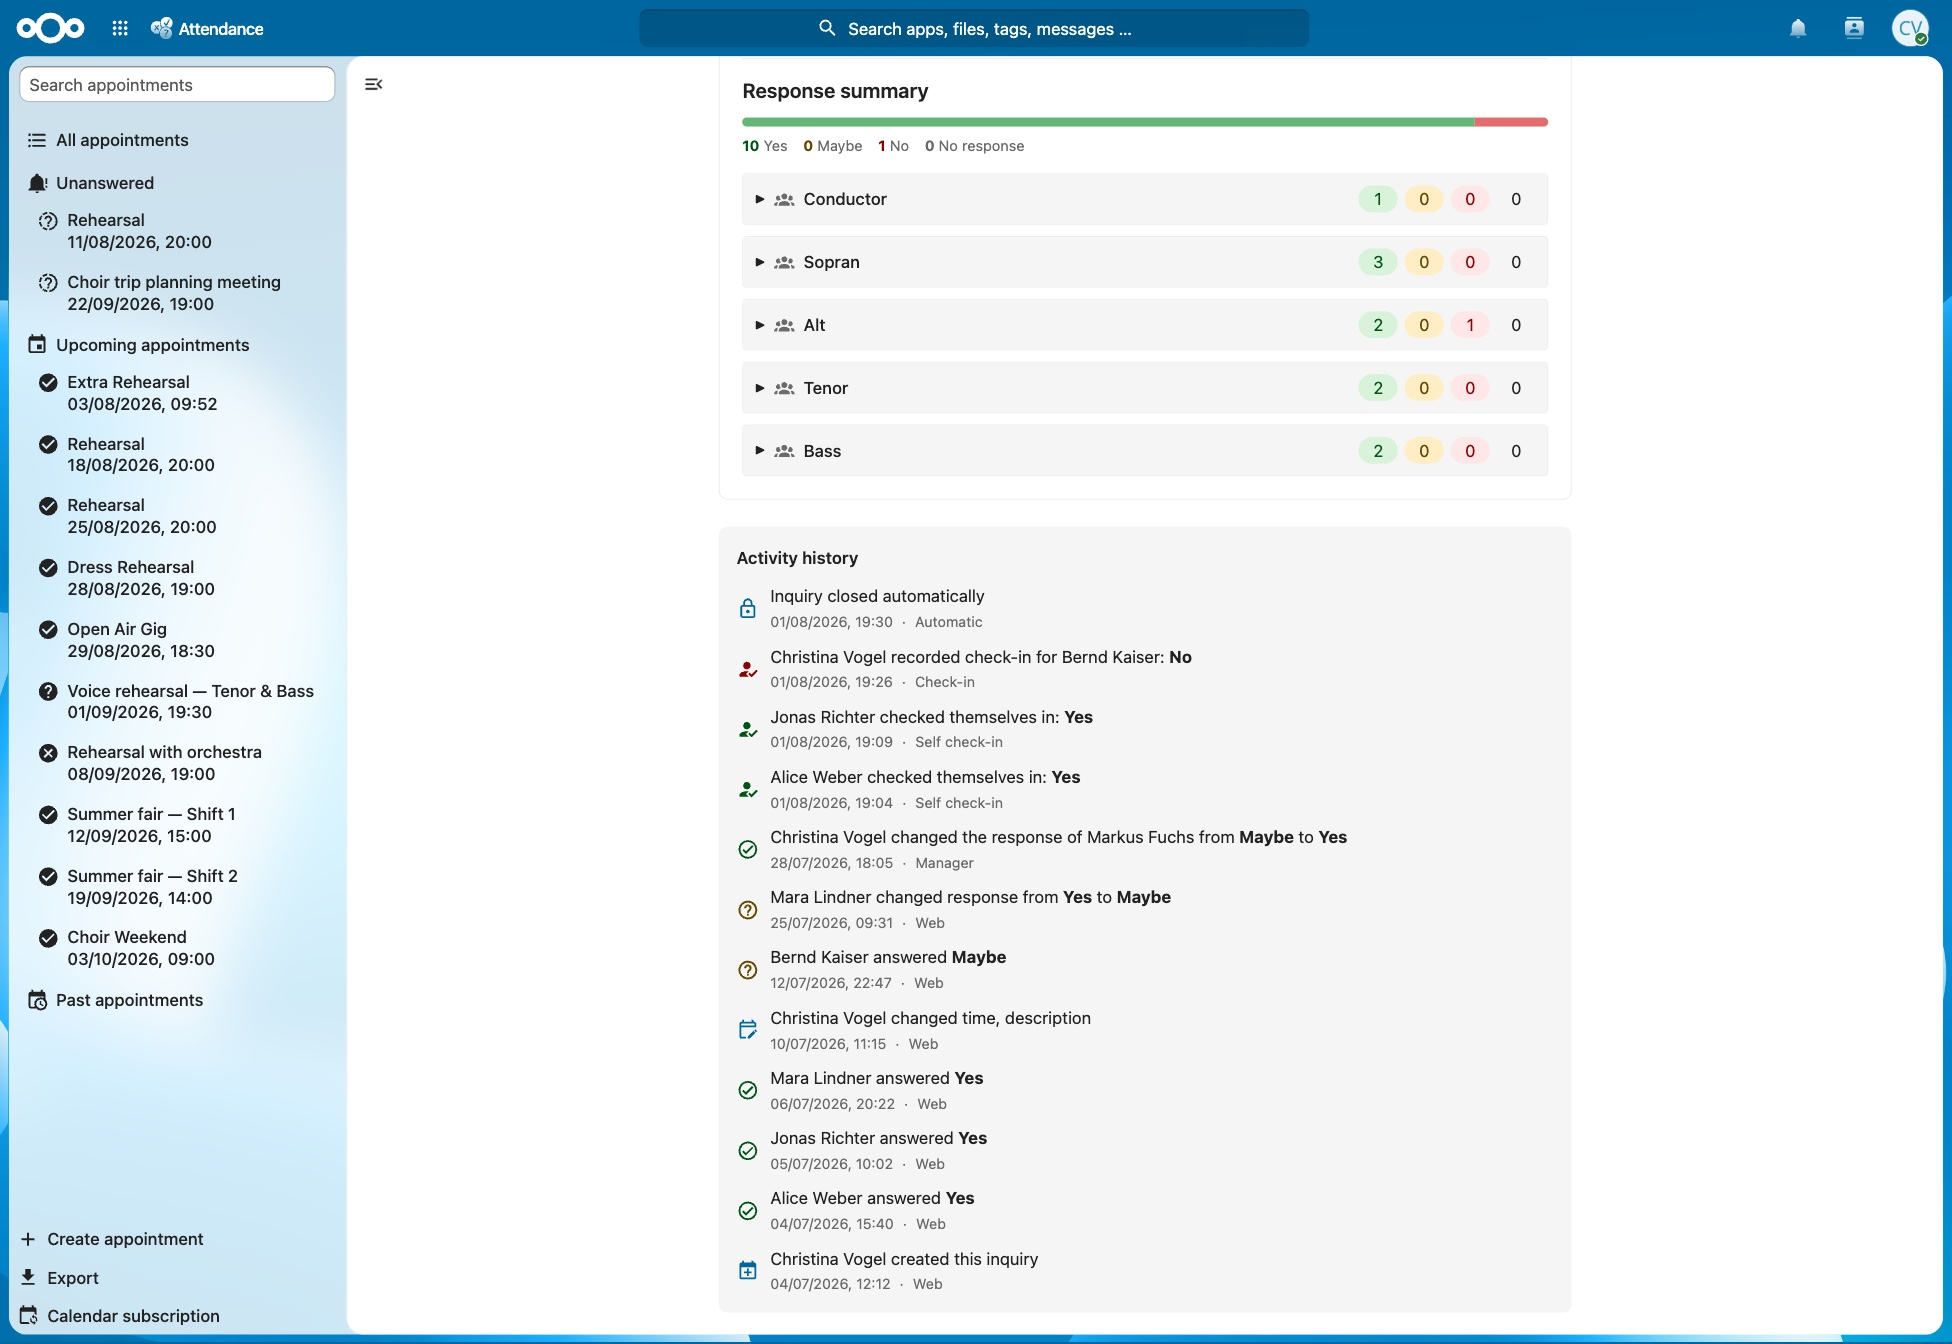
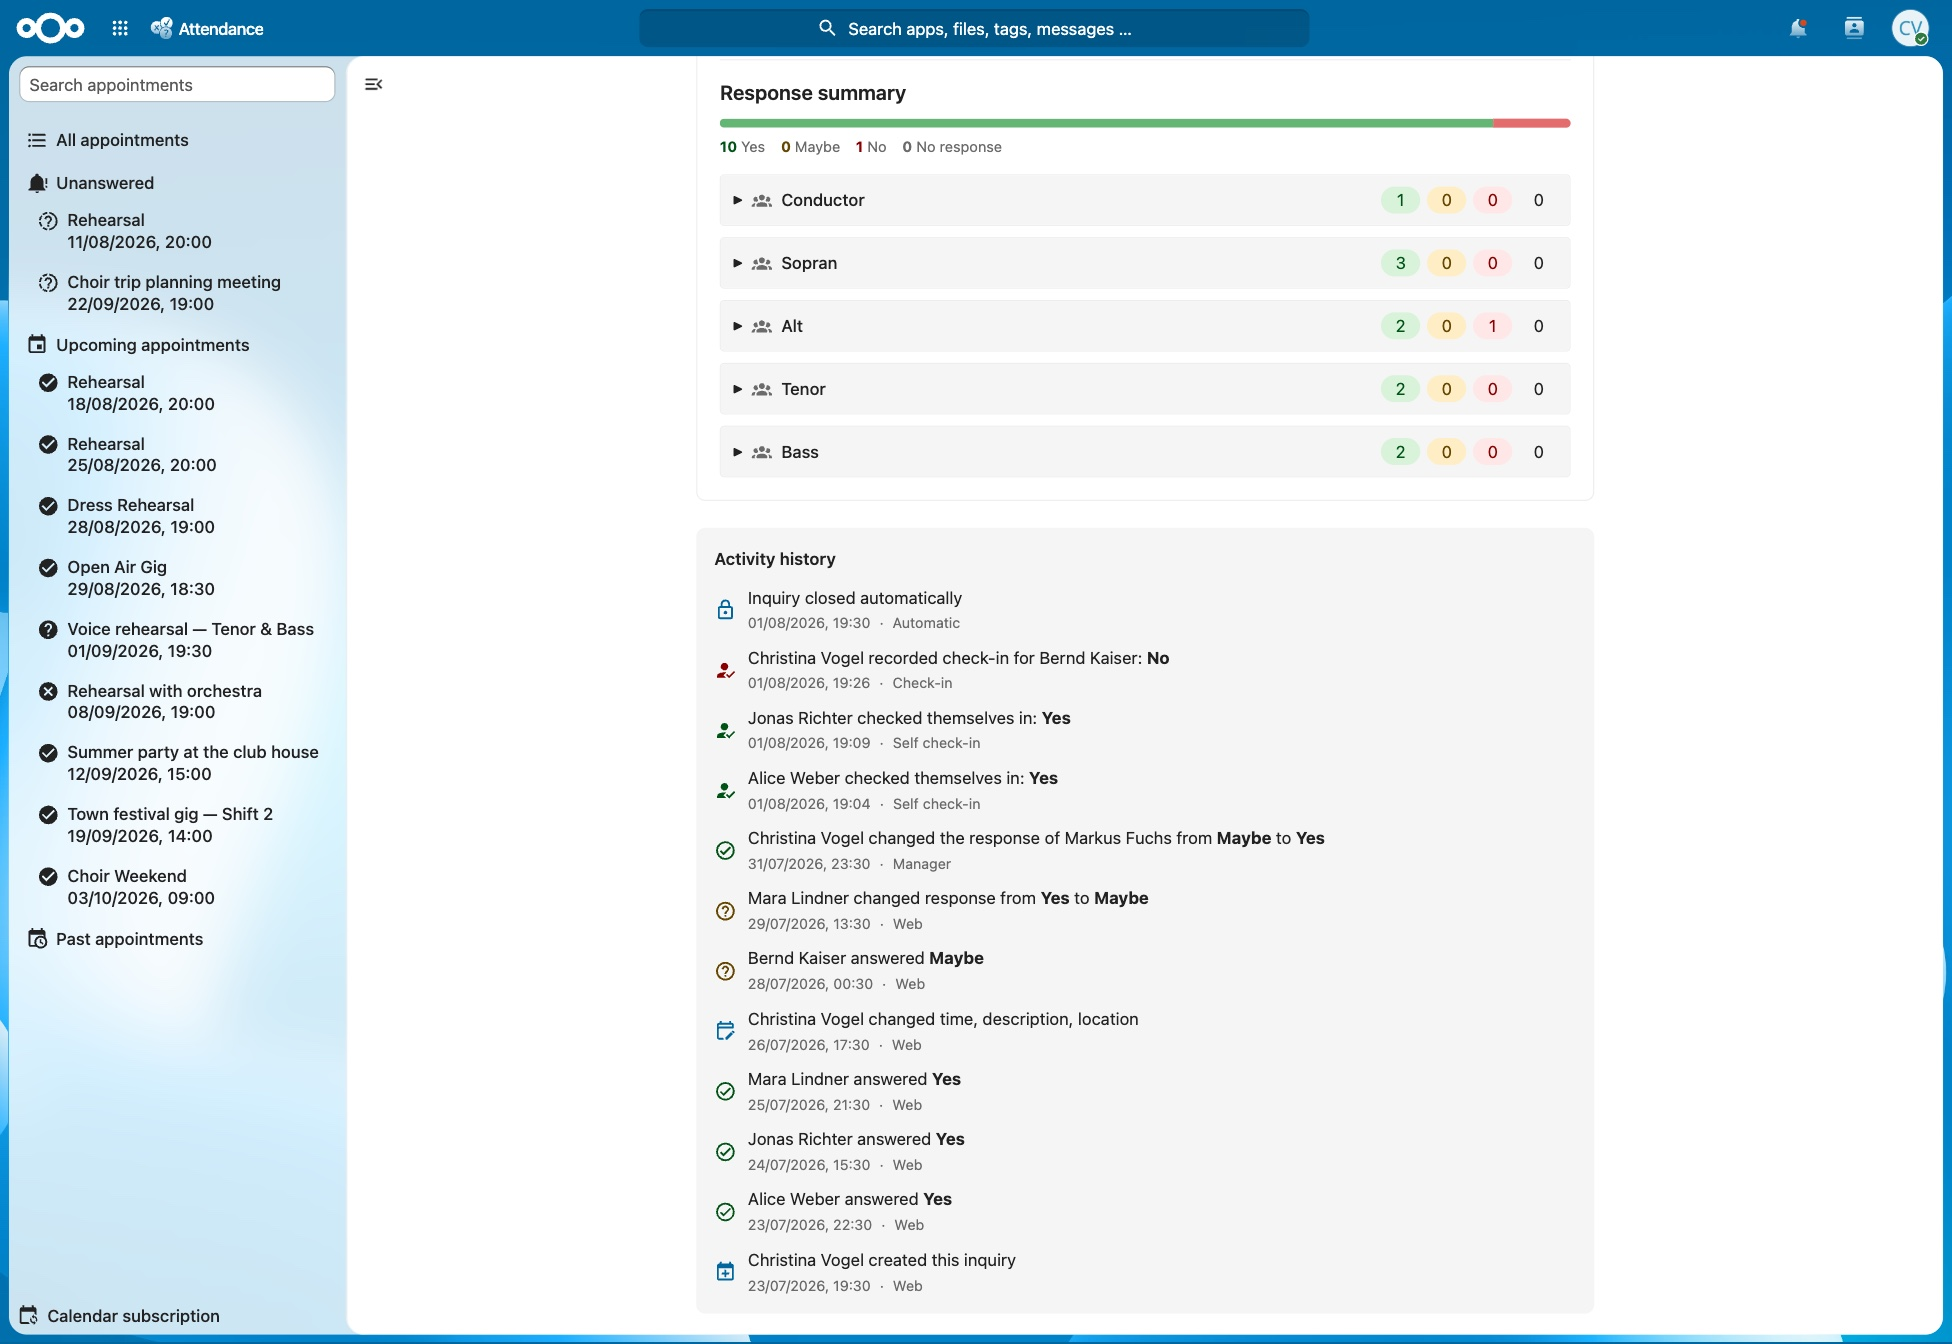
chore: reshoot screenshots with categories and locations
The seed data predates both features, so the shipped screenshots showed
neither. Adds four choir categories (Rehearsal/microphone,
Performance/theater, Choir weekend/cabin, Party/celebration) covering
every appointment but the deliberately uncategorized design state, and a
location on three of them so both card variants are visible.

The category icon and the location line grow the cards, so all three list
viewports needed re-measuring — the old ones now cut mid-card.

apply_config additionally repairs two settings that block the shoot:
permission_checkin (no admin bypass exists, so the mode an e2e run leaves
behind makes the check-in page 403) and booking_enabled, which the
Schedule buttons and the scheduling chips both need.

diff --git a/.claude/skills/screenshots/scripts/seed_demo_data.py b/.claude/skills/screenshots/scripts/seed_demo_data.py
@@ -66,6 +66,38 @@ ORGANIZER = "admin"
 
 SERIES_ID = "demo-rehearsal-series"
 
+# Demo categories, written into `oc_att_categories` in the same reserved ID
+# range as the appointments. Icons must be keys of CategoryService::ICONS.
+# (category key, icon, name per language)
+CATEGORIES = [
+    ("rehearsal", "microphone", {"en": "Rehearsal", "de": "Probe"}),
+    ("performance", "theater", {"en": "Performance", "de": "Auftritt"}),
+    ("weekend", "cabin", {"en": "Choir weekend", "de": "Chorwochenende"}),
+    ("party", "celebration", {"en": "Party", "de": "Fest"}),
+]
+
+# appointment key -> category key. d_unanswered stays uncategorized on
+# purpose so the design states also show the no-category card.
+CATEGORY_FOR = {
+    "r1": "rehearsal", "r2": "rehearsal", "r3": "rehearsal",
+    "r4": "rehearsal", "r5": "rehearsal",
+    "extra": "rehearsal", "dress": "rehearsal",
+    "concert": "performance", "gig": "performance",
+    "weekend": "weekend",
+    "d_maybe": "rehearsal", "d_no": "rehearsal",
+    "d_booked": "party", "d_declined": "performance",
+    "d_cancelled": "rehearsal",
+}
+
+# Only a few appointments carry a location — screenshots should show both the
+# with- and without-location card. Proper nouns stay German in both languages.
+LOCATIONS = {
+    "extra": {"en": "Parish hall St. Martin", "de": "Gemeindesaal St. Martin"},
+    "concert": {"en": "Stadtpark, Bamberg", "de": "Stadtpark, Bamberg"},
+    "weekend": {"en": "Kloster Banz, Bad Staffelstein",
+                "de": "Kloster Banz, Bad Staffelstein"},
+}
+
 # Appointment name + description per language, keyed like RESPONSES. The
 # store screenshots ship in English; `--lang de` produces the same data in
 # German for the website's /de pages (the app store itself cannot take
@@ -516,9 +548,8 @@ def build_design_appointments(now: dt.datetime, lang: str) -> list[dict]:
     """One appointment per state the redesigned card was drawn for.
 
     Kept out of the default seed so the app store screenshots keep showing the
-    plain choir list. Scheduling states only render when the instance has
-    `booking_enabled=yes` — apply_config turns it on. Names follow --lang so a
-    German design review and a German website shot use the same command.
+    plain choir list. Names follow --lang so a German design review and a
+    German website shot use the same command.
     """
     today = now.date()
     tue, sat = 1, 5
@@ -551,6 +582,29 @@ def build_design_appointments(now: dt.datetime, lang: str) -> list[dict]:
     return appts
 
 
+def category_ids() -> dict[str, int]:
+    return {key: ID_BASE + i for i, (key, _, _) in enumerate(CATEGORIES)}
+
+
+def build_category_sql(lang: str) -> list[str]:
+    """Demo categories in the reserved ID range, idempotent like the rest.
+
+    The name column is UNIQUE, so a manually created category with the same
+    name (e.g. from an earlier UI experiment) is deleted too — otherwise the
+    insert would fail.
+    """
+    names = ", ".join(q(names[lang]) for _, _, names in CATEGORIES)
+    out = [
+        f"DELETE FROM oc_att_categories WHERE id BETWEEN {ID_BASE} AND {ID_MAX};",
+        f"DELETE FROM oc_att_categories WHERE name IN ({names});",
+    ]
+    ids = category_ids()
+    for key, icon, cat_names in CATEGORIES:
+        out.append(f"INSERT INTO oc_att_categories (id, name, icon) VALUES "
+                   f"({ids[key]}, {q(cat_names[lang])}, {q(icon)});")
+    return out
+
+
 def build_sql(appts: list[dict], known_users: set[str], lang: str) -> list[str]:
     fmt = "%Y-%m-%d %H:%M:%S"
     out = [
@@ -558,15 +612,20 @@ def build_sql(appts: list[dict], known_users: set[str], lang: str) -> list[str]:
         f"DELETE FROM oc_att_responses WHERE appointment_id BETWEEN {ID_BASE} AND {ID_MAX};",
         f"DELETE FROM oc_att_appointments WHERE id BETWEEN {ID_BASE} AND {ID_MAX};",
     ]
+    out += build_category_sql(lang)
     groups = json.dumps([CONDUCTOR_GROUPS[lang]] + VOICE_GROUPS)
     organizers = json.dumps([ORGANIZER])
+    cat_ids = category_ids()
 
     for a in appts:
         created = (a["start"] - dt.timedelta(days=9)).strftime(fmt)
+        cat_key = CATEGORY_FOR.get(a["key"])
+        location = LOCATIONS.get(a["key"], {}).get(lang)
         cols = ("id, name, description, start_datetime, end_datetime, created_by, "
                 "created_at, updated_at, is_active, visible_users, visible_groups, "
                 "visible_teams, series_id, series_position, send_notification, "
-                "closed_at, response_deadline, cancelled_at, organizers")
+                "closed_at, response_deadline, cancelled_at, organizers, "
+                "location, category_id")
         vals = ", ".join([
             str(a["id"]), q(a["name"]), q(a["desc"]),
             q(a["start"].strftime(fmt)), q(a["end"].strftime(fmt)),
@@ -579,6 +638,8 @@ def build_sql(appts: list[dict], known_users: set[str], lang: str) -> list[str]:
             q(a["deadline"].strftime(fmt)) if a["deadline"] else "NULL",
             q(a["cancelled"].strftime(fmt)) if a.get("cancelled") else "NULL",
             q(organizers),
+            q(location),
+            str(cat_ids[cat_key]) if cat_key else "NULL",
         ])
         out.append(f"INSERT INTO oc_att_appointments ({cols}) VALUES ({vals});")
 
@@ -624,7 +685,8 @@ AUDIT_EVENTS = [
     ("response.submitted", "user6", "user6",
      {"response": "yes", "comment": ""}, "app", dt.timedelta(days=-7, hours=2)),
     ("appointment.updated", "admin", None,
-     {"fields": ["time", "description"]}, "app", dt.timedelta(days=-6, hours=-2)),
+     {"fields": ["time", "description", "location"]}, "app",
+     dt.timedelta(days=-6, hours=-2)),
     ("response.submitted", "bob", "bob",
      {"response": "maybe", "comment": ""}, "app", dt.timedelta(days=-5, hours=5)),
     ("response.changed", "user6", "user6",
@@ -667,8 +729,7 @@ def build_audit_sql(appts: list[dict], known_users: set[str]) -> list[str]:
     return out
 
 
-def apply_config(nc: str, known_users: set[str], lang: str,
-                 design_states: bool = False) -> None:
+def apply_config(nc: str, known_users: set[str], lang: str) -> None:
     print("configuring instance …")
     conductor = CONDUCTOR_GROUPS[lang]
     existing_groups = occ(nc, "group:list", "--output=json")
@@ -704,10 +765,19 @@ def apply_config(nc: str, known_users: set[str], lang: str,
     occ(nc, "user:setting", ORGANIZER, "core", "locale", ui_locale, check=False)
     print(f"  + {ORGANIZER}: lang={ui_lang} locale={ui_locale}")
 
-    # The "Scheduled" / "Not scheduled" states only render with the feature on.
-    if design_states:
-        occ(nc, "config:app:set", "attendance", "booking_enabled", "--value=yes")
-        print("  + booking_enabled = yes")
+    # The check-in list 403s when permission_checkin is left at mode "nobody"
+    # — there is no admin bypass, and an e2e run leaves it that way. Point it
+    # at the conductor group so the screenshot account can check people in.
+    occ(nc, "config:app:set", "attendance", "permission_checkin_mode",
+        "--value=groups")
+    occ(nc, "config:app:set", "attendance", "permission_checkin",
+        f"--value={json.dumps([conductor])}")
+    print(f"  + permission_checkin = groups {conductor}")
+
+    # The category badge on the cards, and the "Scheduled" / "Not scheduled"
+    # states, only render with their feature on.
+    occ(nc, "config:app:set", "attendance", "booking_enabled", "--value=yes")
+    print("  + booking_enabled = yes")
 
 
 def main() -> None:
@@ -748,7 +818,7 @@ def main() -> None:
 
     print(f"instance {nc}, db {db}, now (UTC) {now}, lang {args.lang}")
     if not args.no_config:
-        apply_config(nc, users, args.lang, design_states=args.design_states)
+        apply_config(nc, users, args.lang)
 
     cfg = db_config(nc)
     cmd = ["docker", "exec", "-i", db, "mysql",
@@ -761,11 +831,15 @@ def main() -> None:
     if err:
         print(err)
 
-    print(f"seeded {len(appts)} appointments (IDs {ID_BASE}-{appts[-1]['id']}):")
+    print(f"seeded {len(CATEGORIES)} categories and {len(appts)} appointments "
+          f"(IDs {ID_BASE}-{appts[-1]['id']}):")
     for a in appts:
         state = "cancelled" if a.get("cancelled") else "closed" if a["closed"] else "open"
         running = "  <- running now" if a["start"] <= now <= a["end"] else ""
-        print(f"  {a['id']}  {a['start']:%a %d %b %H:%M} UTC  {a['name']:<16} {state}{running}")
+        cat = CATEGORY_FOR.get(a["key"], "-")
+        loc = "  @ " + LOCATIONS[a["key"]][args.lang] if a["key"] in LOCATIONS else ""
+        print(f"  {a['id']}  {a['start']:%a %d %b %H:%M} UTC  {a['name']:<20} "
+              f"{state:<9} [{cat}]{running}{loc}")
 
 
 if __name__ == "__main__":

diff --git a/.claude/skills/screenshots/SKILL.md b/.claude/skills/screenshots/SKILL.md
@@ -97,12 +97,12 @@ instead of hunting for a closed or cancelled example:
 | 155 | **cancelled** |
 | 156 | open, unanswered, with a response deadline |
 
-The scheduling states need `booking_enabled=yes`, which this flag turns on.
-They are **not** part of the app store set — the plain run deletes them again,
+These are **not** part of the app store set — the plain run deletes them again,
 because the shipped list screenshot should show an ordinary choir list. Re-pass
-the flag whenever you want them back.
+the flag whenever you want them back. `scheduling.jpg` is the exception: it is
+shot from IDs 153/154, so that shot needs this flag.
 
-The script also fixes four things that otherwise ruin the screenshots. Do not
+The script also fixes six things that otherwise ruin the screenshots. Do not
 skip them with `--no-config` unless you know they are already right:
 
 - **Display names.** The dev accounts have none, so the UI would show `user1`,
@@ -114,6 +114,12 @@ skip them with `--no-config` unless you know they are already right:
   one person in "Others".
 - **`lang=en` *and* `locale=en_GB`** for admin. `lang` alone leaves dates
   German ("So., 26. Juli 2026") inside an English UI.
+- **`permission_checkin`** pointed at the conductor group. There is no admin
+  bypass in `PermissionService`, so the mode an e2e run leaves behind
+  (`nobody`) makes the check-in page answer 403 — "Failed to load appointment
+  data" instead of a list.
+- **`booking_enabled=yes`**, which the "Schedule" buttons in the response
+  summary and the Scheduled / Not scheduled chips both need.
 
 ## Step 2 — Log in (the user has to do this)
 
@@ -133,13 +139,15 @@ font size; the resulting image stays the same pixel size. This is the
 "zoom out until it fits" lever.
 
 ```
-emulate  viewport: 1220x840x1.6     -> dashboard widget
-emulate  viewport: 1495x1030x1.305  -> appointment list
-emulate  viewport: 1743x1200x1.12   -> group statistics (one group expanded)
-emulate  viewport: 1788x1231x1.092  -> check-in list
+emulate  viewport: 1220x840x1.6        -> dashboard widget
+emulate  viewport: 1426x982x1.36863    -> appointment list
+emulate  viewport: 1580x1088x1.235294  -> group statistics (one group expanded)
+emulate  viewport: 1739x1197x1.1224842 -> check-in list, audit log, scheduling
 ```
 
 Those are starting points, not gospel — content length shifts with the data.
+The category icon next to the title and the location line both grow the cards,
+so a viewport that fit before will cut mid-card now.
 **Measure, do not guess.** Before each shot, check what actually fits:
 
 ```js
@@ -160,6 +168,11 @@ entries rather than through one:
 ```
 
 Pick a viewport height that lands just past one entry's `bottom`.
+
+When you derive a new pair, keep enough decimals that `width x scale` rounds to
+1952, not 1951 — Chrome truncates, and a one-pixel-narrower image in an
+otherwise uniform set is the kind of thing only the store's side-by-side view
+reveals. Verify with `sips` in Step 4 rather than trusting the arithmetic.
 
 Then take the shot as PNG and **keep it** — Step 4 needs it:
 
